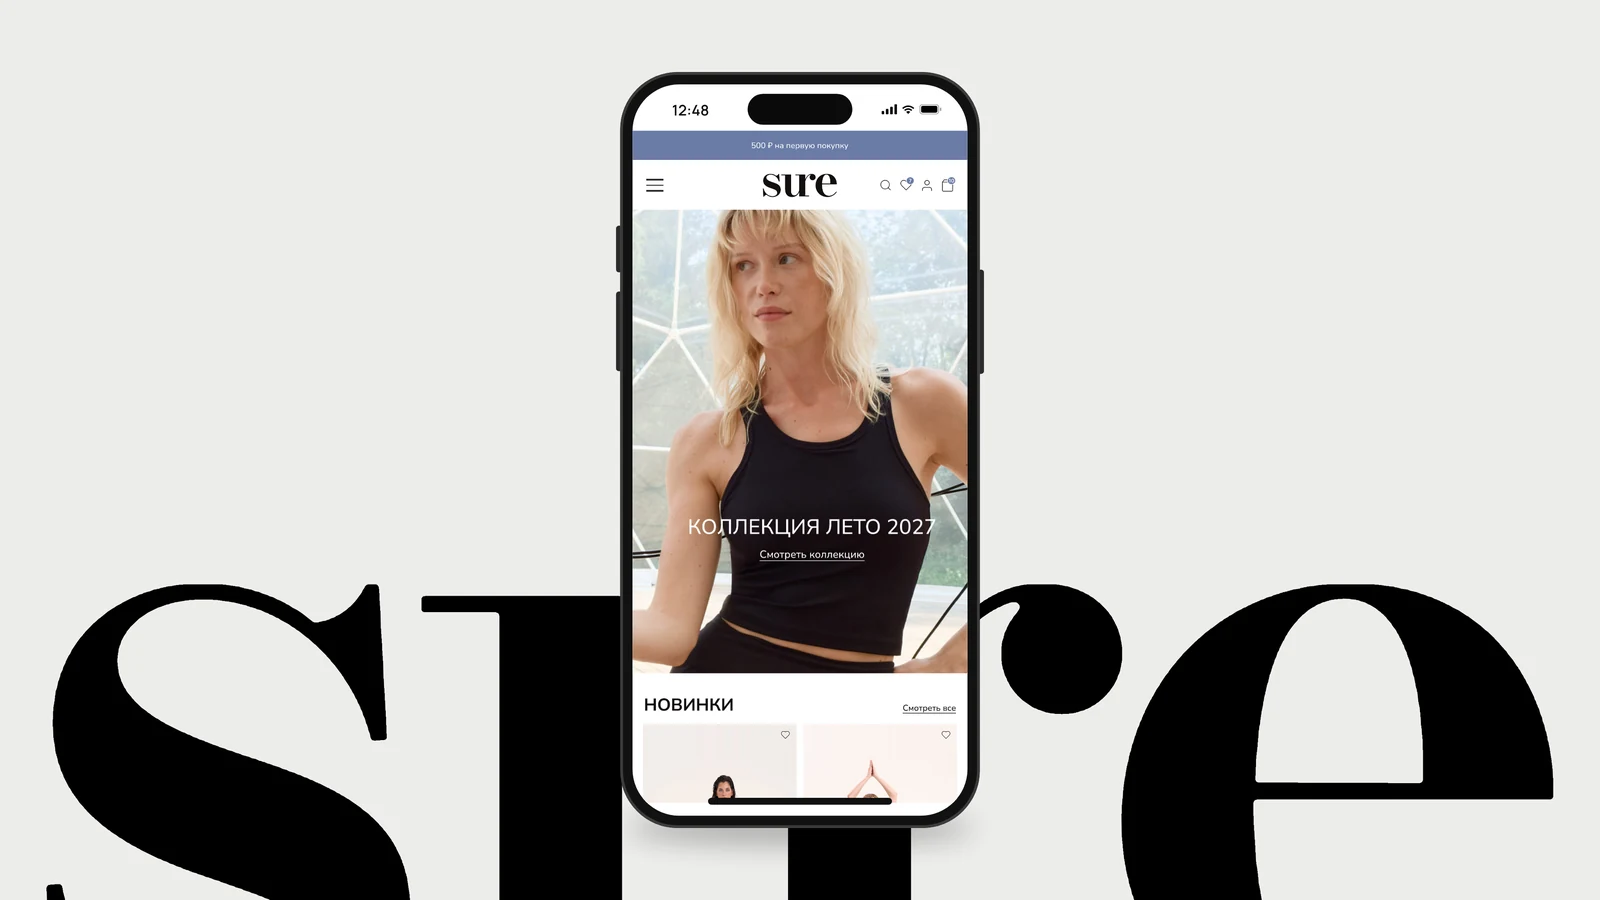
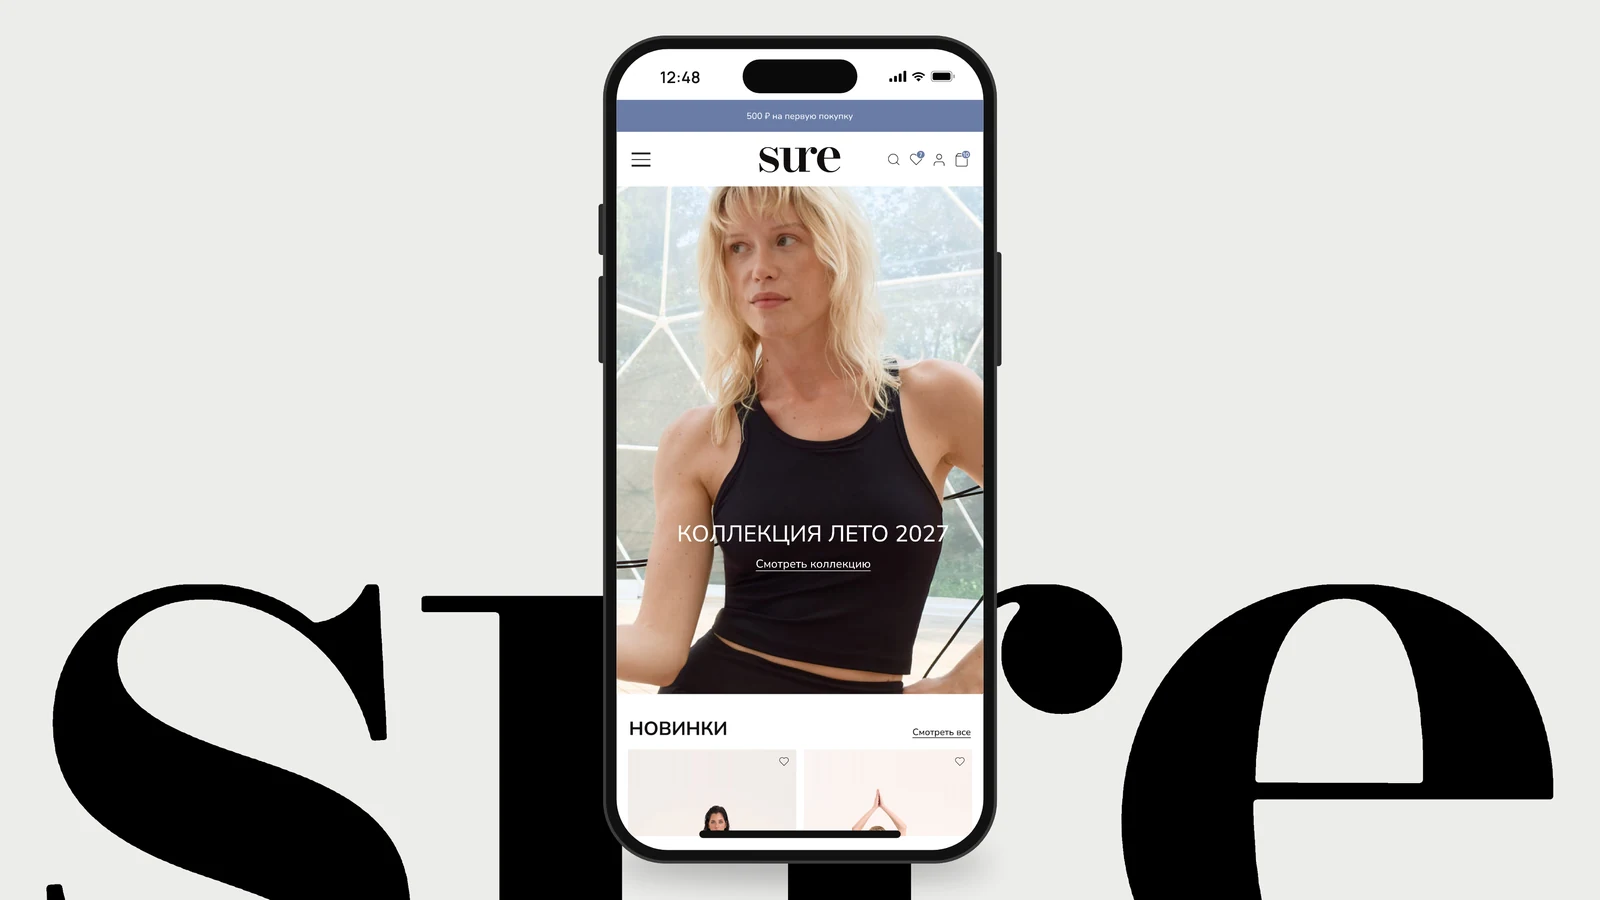
Статичный сайт для Тильды (собрано из main 09ec799) (автосборка)

Changed region(s): [[0.375, 0.0311, 0.625, 0.9956]]

diff --git a/pages/index.html b/pages/index.html
@@ -344,11 +344,11 @@ html #allrecords .t396 .t396__artboard { z-index: 15 !important; }
       </a>
     </li>
     <li class="prow">
-      <a class="prow__link" href="/project_page_sure" data-cover="https://cdn.jsdelivr.net/gh/UlyanaNechipor/uma_studio@3500c98eca58d8fc77441a1936358a6f1bc390a6/img/covers/sure-mockup.webp">
+      <a class="prow__link" href="/project_page_sure" data-cover="https://cdn.jsdelivr.net/gh/UlyanaNechipor/uma_studio@09ec799644e461003e43d9c5ec853462890bbc33/img/covers/sure-mockup.webp">
         <span class="prow__name ty-name">Sure</span>
         <span class="prow__type ty-small ty-grey"><span class="nw">Интернет-магазин</span></span>
         <span class="prow__year ty-small ty-grey">2024</span>
-        <span class="prow__pics"><img class="" src="https://cdn.jsdelivr.net/gh/UlyanaNechipor/uma_studio@3500c98eca58d8fc77441a1936358a6f1bc390a6/img/mobile/sure-m1.webp" alt="" loading="lazy" decoding="async"><img class="" src="https://cdn.jsdelivr.net/gh/UlyanaNechipor/uma_studio@3500c98eca58d8fc77441a1936358a6f1bc390a6/img/mobile/sure-m2.webp" alt="" loading="lazy" decoding="async"></span>
+        <span class="prow__pics"><img class="" src="https://cdn.jsdelivr.net/gh/UlyanaNechipor/uma_studio@09ec799644e461003e43d9c5ec853462890bbc33/img/mobile/sure-m1.webp" alt="" loading="lazy" decoding="async"><img class="" src="https://cdn.jsdelivr.net/gh/UlyanaNechipor/uma_studio@09ec799644e461003e43d9c5ec853462890bbc33/img/mobile/sure-m2.webp" alt="" loading="lazy" decoding="async"></span>
       </a>
     </li>
     <li class="prow">
